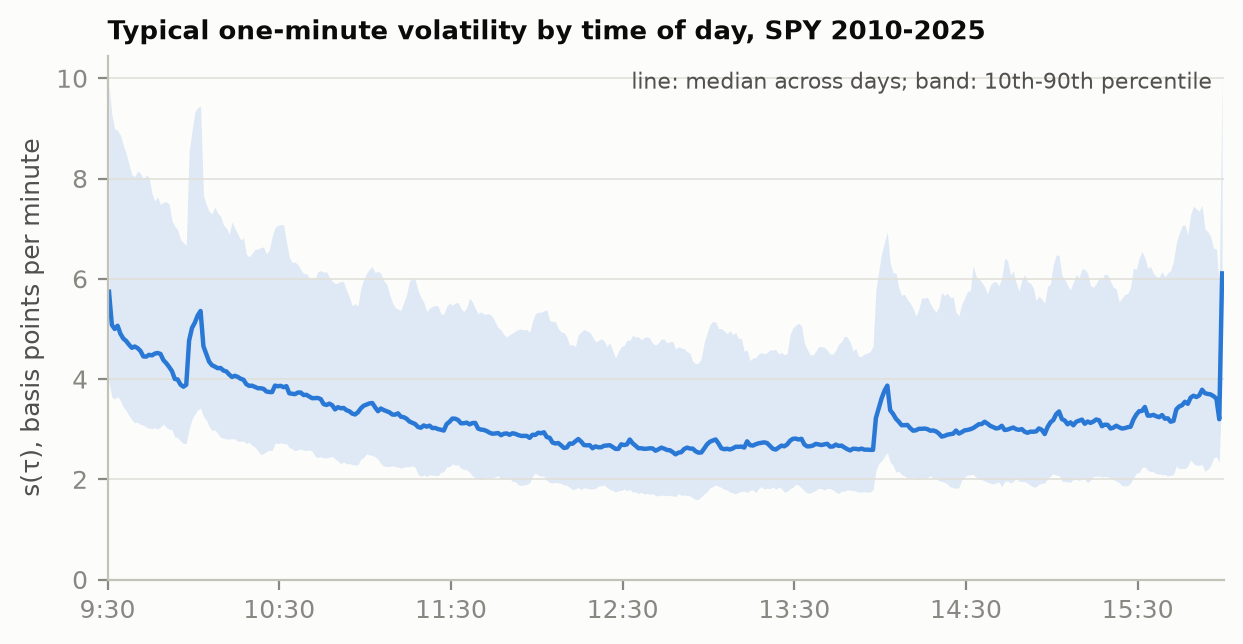
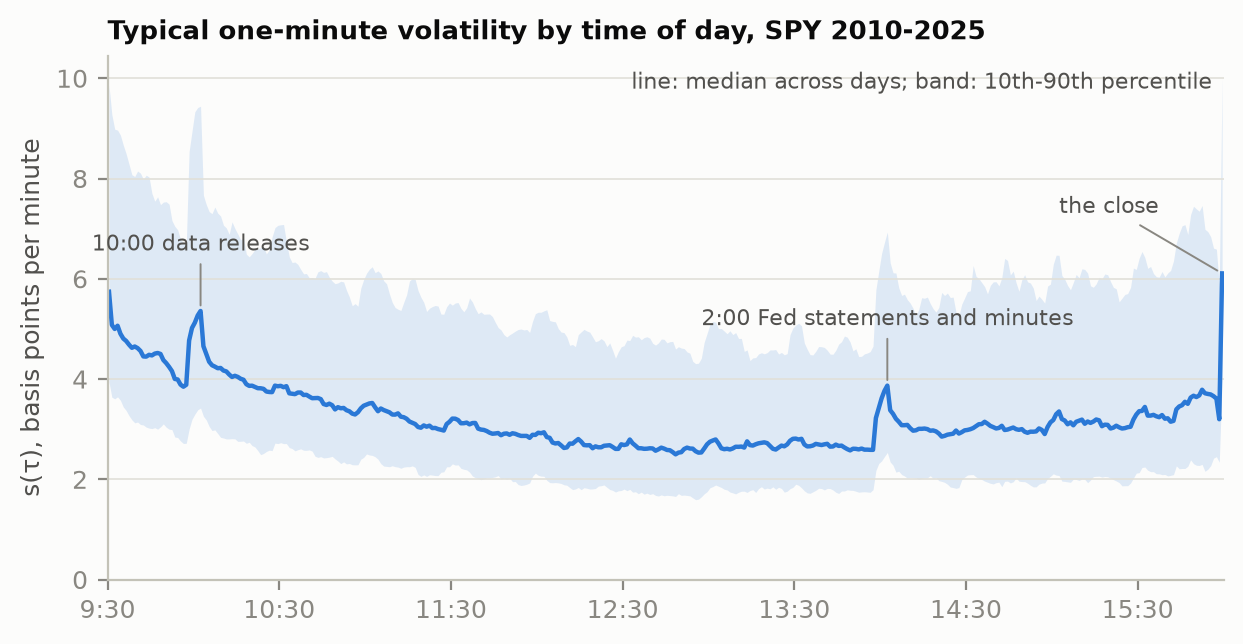
Intraday profile figure: labels for 10:00 releases, 2:00 Fed, the close

Changed region(s): [[0.5809, 0.4658, 0.856, 0.528], [0.0611, 0.3416, 0.2446, 0.4037], [0.856, 0.3106, 0.9477, 0.3416]]

diff --git a/scripts/fig_ushape.py b/scripts/fig_ushape.py
@@ -30,6 +30,12 @@ TEST_YEARS = ("2010-01-01", "2025-12-31")
 INK, INK_2, MUTED = "#0b0b0b", "#52514e", "#898781"
 GRID, AXIS, SURFACE = "#e1e0d9", "#c3c2b7", "#fcfcfb"
 C_LINE = "#2a78d6"
+# Labels chosen after looking at the first render (2026-11-08): (minute after the open,
+# text, label offset in minutes, horizontal alignment). Each points at the highest
+# median within a few minutes of the event.
+ANNOTATIONS = [(30, "10:00 data releases", 0, "center"),
+               (270, "2:00 Fed statements and minutes", 0, "center"),
+               (389, "the close", -22, "right")]
 
 
 def profile(S2: pd.DataFrame, days) -> pd.DataFrame:
@@ -63,6 +69,14 @@ def draw(p: pd.DataFrame, out: Path) -> Path:
     x = p.index.to_numpy() + 0.5
     ax.fill_between(x, p["p10"], p["p90"], color=C_LINE, alpha=0.14, linewidth=0)
     ax.plot(x, p["median"], color=C_LINE, linewidth=1.6)
+    med = p["median"]
+    for tau, text, dx, ha in ANNOTATIONS:
+        near = med.iloc[max(0, tau - 2): min(len(med), tau + 8)]
+        t, y = near.idxmax(), near.max()
+        ax.annotate(text, xy=(t + 0.5, y), xytext=(t + 0.5 + dx, y + 1.1), ha=ha, va="bottom",
+                    fontsize=8, color=INK_2,
+                    arrowprops={"arrowstyle": "-", "color": MUTED, "linewidth": 0.7,
+                                "shrinkA": 1, "shrinkB": 2})
     ticks = np.arange(0, 391, 60)
     ax.set_xticks(ticks, [clock(t) for t in ticks])
     ax.set_xlim(0, 390)
